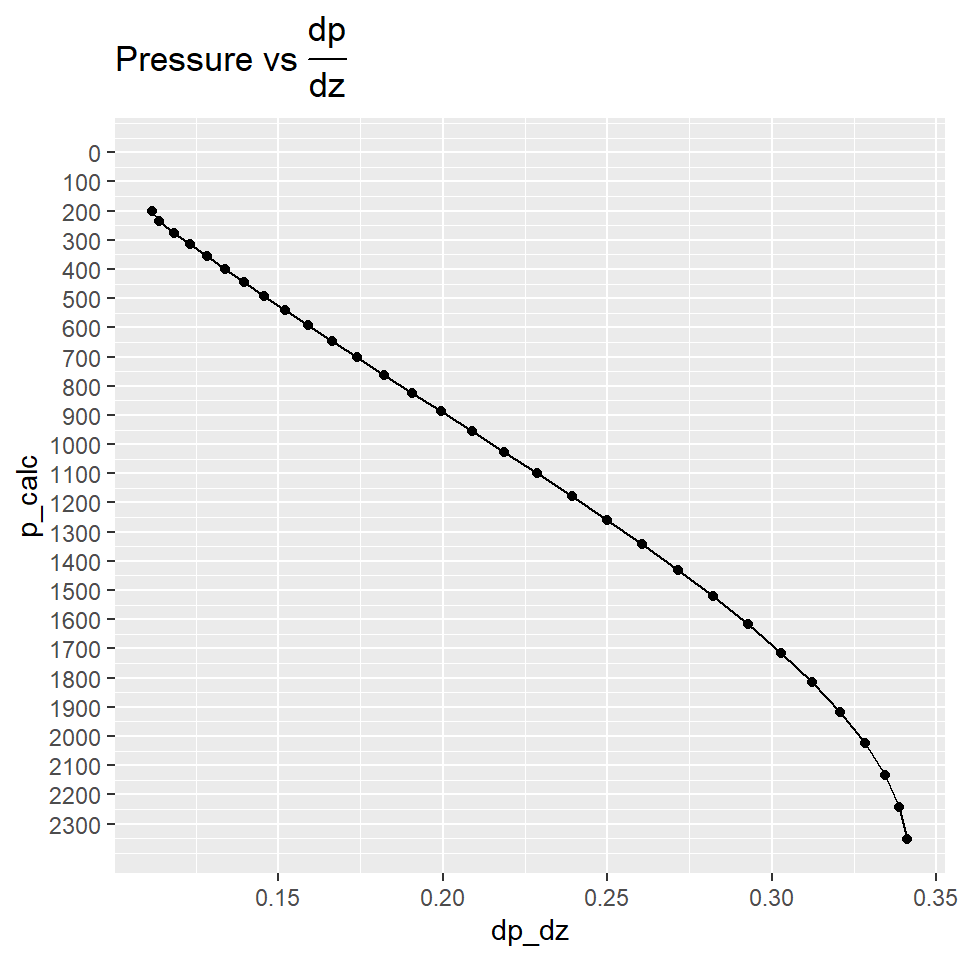
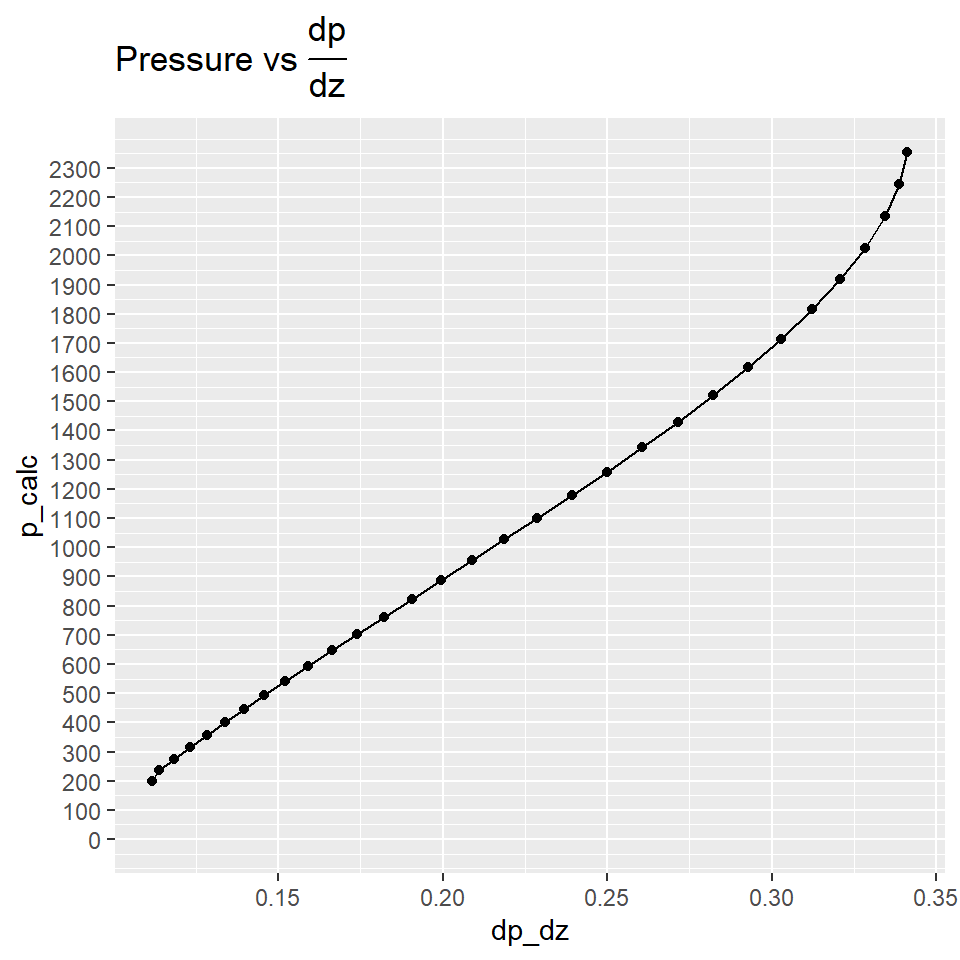
figures and correction of P vs dp/dz plot

diff --git a/content/publications/2019-02-05-descending-into-the-bottomhole-the-marching-algorithm-for-petroleum-engineering.html b/content/publications/2019-02-05-descending-into-the-bottomhole-the-marching-algorithm-for-petroleum-engineering.html
@@ -270,8 +270,8 @@ out_df &lt;- data.table::rbindlist(output)    # convert list to table</code></pr
 <p>The plots have been created using <code>ggplot2</code>, a very flexible, customizable and powerful visualization platform. I have made use of couple of advanced characteristics of ggplot: reverse the <strong>y-axis</strong>, and annotate the plot with <a href="https://www.latex-project.org/">Latex</a> with the package <code>latextoexp</code>. Also, I am changing the default number of ticks on the y-axis using <code>breaks</code>, as well as sequences to mark the location of the ticks.</p>
 <pre class="r"><code># plot pressure, depth vs gradient
 ggplot(out_df, aes(x=dp_dz, y=p_calc)) +
-    scale_y_reverse(limits = c(max(out_df$p_calc), 0), 
-                    breaks = seq(0, max(out_df$p_calc), 100)) + 
+    scale_y_continuous(limits = c(0, max(out_df$p_calc)),
+                       breaks = seq(0, max(out_df$p_calc), 100))+
   geom_line() + geom_point() + 
   labs(title = TeX(&quot;Pressure vs $\\frac{dp}{dz}$&quot;))</code></pre>
 <p><img src="/publications/2019-02-05-descending-into-the-bottomhole-the-marching-algorithm-for-petroleum-engineering_files/figure-html/unnamed-chunk-2-1.png" width="480" style="display: block; margin: auto;" /></p>
